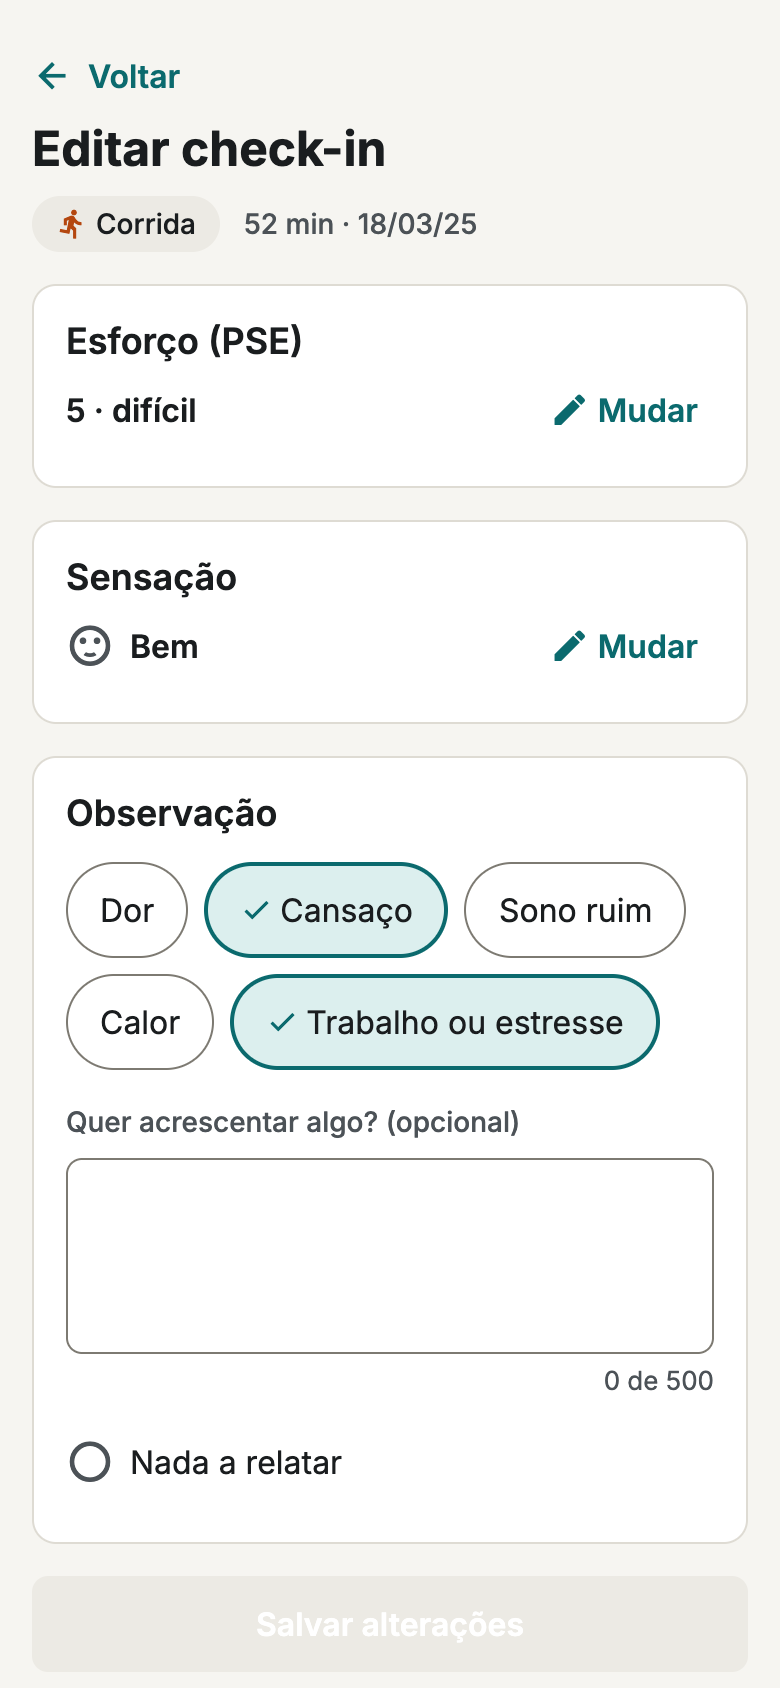
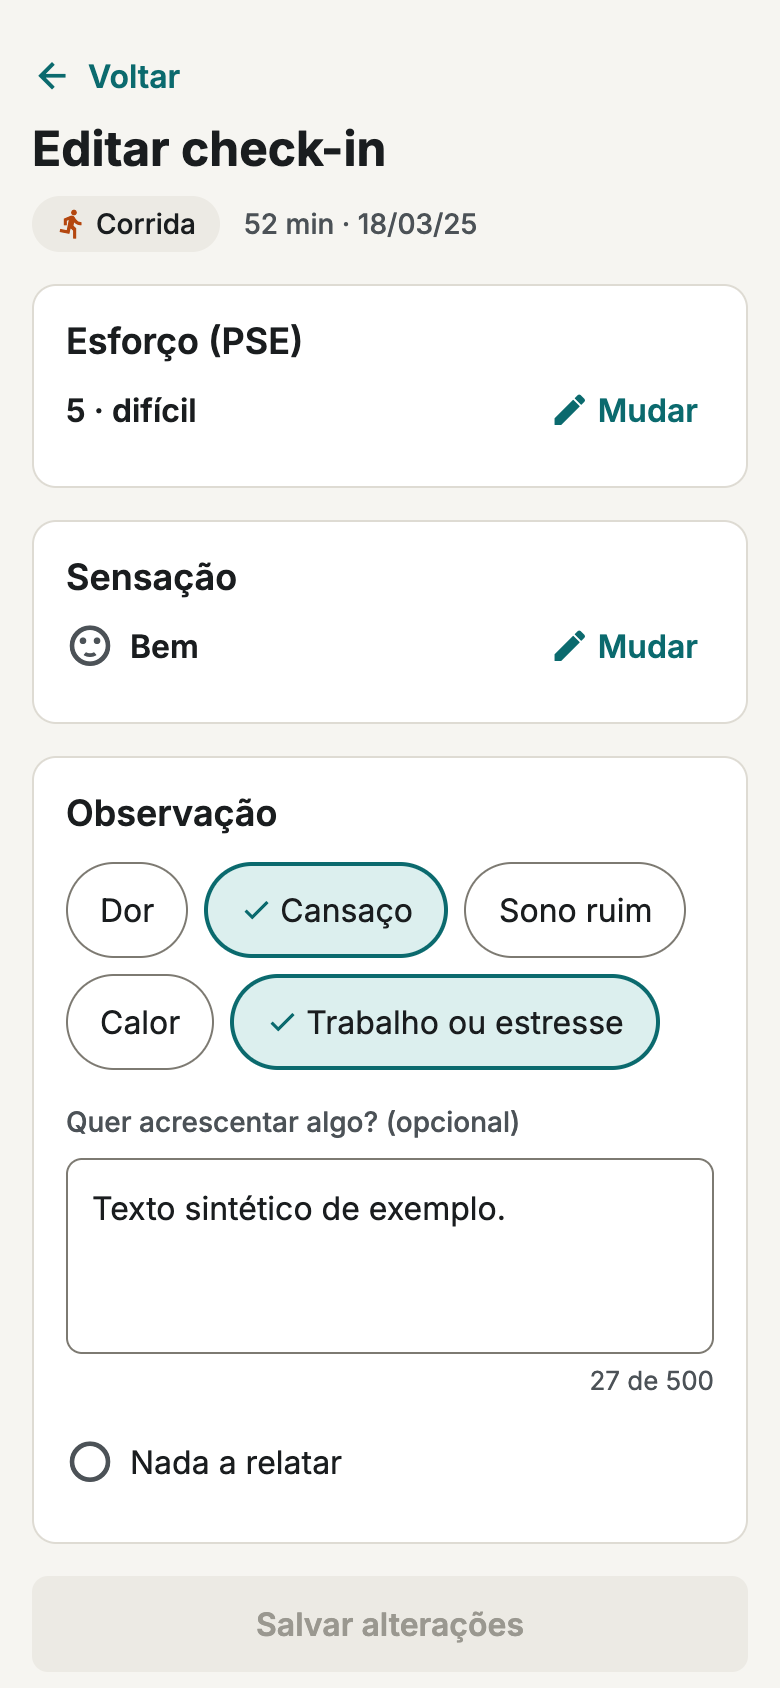
Check-in: capturas no tema escuro e nos estados de erro (#334) (#351)
* Check-in: capturas no tema escuro e nos estados de erro; botao de erro centralizado e texto desligado legivel (#334)

* Check-in: Salvando... em texto-2 e capturas refeitas com o codigo atual (#334)

---------

Changed region(s): [[0.1231, 0.7085, 0.6462, 0.7393], [0.3385, 0.955, 0.6769, 0.9858], [0.7692, 0.8009, 0.8, 0.8318]]

diff --git a/apps/mobile/src/componentes/TelaCheckin.tsx b/apps/mobile/src/componentes/TelaCheckin.tsx
@@ -299,7 +299,7 @@ export function TelaCheckin({ apiUrl, atletaId, atividadeId, aoVoltar, aoConclui
                   setCarga({ tipo: "carregando" });
                   setTentativa((n) => n + 1);
                 }}
-                style={styles.botaoPrimario}
+                style={[styles.botaoPrimario, { alignSelf: "center" }]}
               >
                 <Text style={styles.botaoPrimarioTexto}>Tentar de novo</Text>
               </Pressable>
@@ -313,7 +313,7 @@ export function TelaCheckin({ apiUrl, atletaId, atividadeId, aoVoltar, aoConclui
             <Text accessibilityRole="alert" style={styles.erroTexto}>
               {carga.texto}
             </Text>
-            <Pressable accessibilityRole="button" onPress={() => (aoConcluir ?? aoVoltar)?.()} style={styles.botaoPrimario}>
+            <Pressable accessibilityRole="button" onPress={() => (aoConcluir ?? aoVoltar)?.()} style={[styles.botaoPrimario, { alignSelf: "center" }]}>
               <Text style={styles.botaoPrimarioTexto}>Voltar ao treino</Text>
             </Pressable>
           </View>
@@ -537,7 +537,7 @@ function Pergunta(props: {
             onPress={props.aoSalvar}
             style={[styles.botaoPrimario, styles.larguraTotal, (!props.completo || ocupado) && styles.botaoDesligado]}
           >
-            <Rotulo styles={styles} tema={tema} ocupado={props.acao === "salvando"} ocupadoTexto="Salvando..." texto="Salvar check-in" />
+            <Rotulo styles={styles} tema={tema} desligado={!props.completo || ocupado} ocupado={props.acao === "salvando"} ocupadoTexto="Salvando..." texto="Salvar check-in" />
           </Pressable>
           <Pressable
             testID="nada-a-relatar"
@@ -556,14 +556,16 @@ function Pergunta(props: {
   );
 }
 
-function Rotulo({ styles, tema, ocupado, ocupadoTexto, texto }: { styles: Estilos; tema: Tema; ocupado: boolean; ocupadoTexto: string; texto: string }) {
+/** Rótulo do botão primário. Ocupado ("Salvando...") usa `cor.texto-2` sobre `superficie-2`, pois é informação de estado; só desligado usa `cor.texto-desligado`. */
+function Rotulo({ styles, tema, ocupado, ocupadoTexto, texto, desligado = false }: { styles: Estilos; tema: Tema; ocupado: boolean; ocupadoTexto: string; texto: string; desligado?: boolean }) {
+  const cor = ocupado ? tema.cor["texto-2"] : desligado ? tema.cor["texto-desligado"] : tema.cor["sobre-destaque"];
   return ocupado ? (
     <View style={styles.linhaCentro}>
-      <ActivityIndicator color={tema.cor["sobre-destaque"]} />
-      <Text style={styles.botaoPrimarioTexto}>{ocupadoTexto}</Text>
+      <ActivityIndicator color={cor} />
+      <Text style={[styles.botaoPrimarioTexto, { color: cor }]}>{ocupadoTexto}</Text>
     </View>
   ) : (
-    <Text style={styles.botaoPrimarioTexto}>{texto}</Text>
+    <Text style={[styles.botaoPrimarioTexto, { color: cor }]}>{texto}</Text>
   );
 }
 
@@ -712,7 +714,7 @@ function Edicao(props: {
         onPress={props.aoSalvar}
         style={[styles.botaoPrimario, styles.larguraTotal, { marginTop: espaco[4] }, (!props.podeSalvar || ocupado) && styles.botaoDesligado]}
       >
-        <Rotulo styles={styles} tema={tema} ocupado={props.acao === "salvando"} ocupadoTexto="Salvando..." texto="Salvar alterações" />
+        <Rotulo styles={styles} tema={tema} desligado={!props.podeSalvar || ocupado} ocupado={props.acao === "salvando"} ocupadoTexto="Salvando..." texto="Salvar alterações" />
       </Pressable>
       <Pressable
         testID="apagar-checkin"

diff --git a/apps/mobile/__tests__/TelaCheckin.test.tsx b/apps/mobile/__tests__/TelaCheckin.test.tsx
@@ -1,6 +1,8 @@
-import { fireEvent, render, screen, waitFor, within } from "@testing-library/react-native";
+import { StyleSheet } from "react-native";
+import { act, fireEvent, render, screen, waitFor, within } from "@testing-library/react-native";
 import type { Atividade } from "@treino/api-client";
 
+import { coresClaro, coresEscuro } from "../src/tema/tokens";
 import { TelaCheckin } from "../src/componentes/TelaCheckin";
 import { atividadesCheckin, checkinExemplo, MARCADOR } from "../__fixtures__/checkin";
 
@@ -128,6 +130,41 @@ describe("tela de check-in: criar", () => {
       atalhos: ["dor", "sono_ruim"],
       texto: null,
     });
+  });
+
+  it("botão desligado e 'Salvando...' usam o texto de desligado, legível nos dois temas (#334)", async () => {
+    const f = servidor({});
+    await abrir(f);
+    await pergunta1();
+    await fireEvent.press(screen.getByTestId("pse-5"));
+    await screen.findByText("Como você se sentiu no treino?");
+    await fireEvent.press(screen.getByTestId("sensacao-4"));
+    await screen.findByText("Quer registrar mais alguma coisa?");
+    const rotulo = within(screen.getByTestId("salvar-checkin")).getByText("Salvar check-in");
+    const cor = (StyleSheet.flatten(rotulo.props.style) as { color: string }).color;
+    expect([coresClaro["texto-desligado"], coresEscuro["texto-desligado"]]).toContain(cor);
+    await fireEvent.press(screen.getByTestId("atalho-dor"));
+    const ligado = within(screen.getByTestId("salvar-checkin")).getByText("Salvar check-in");
+    expect((StyleSheet.flatten(ligado.props.style) as { color: string }).color).not.toBe(cor);
+  });
+
+  it("'Salvando...' usa texto-2 (informação de estado), não o texto de desligado (#334)", async () => {
+    const f = servidor({ put: new Error("lento") });
+    let solta: (v: Response) => void = () => {};
+    const lento = jest.fn(async (url: unknown, init?: RequestInit) =>
+      init?.method === "PUT" ? new Promise<Response>((r) => (solta = r)) : f(url as string, init),
+    ) as unknown as typeof fetch;
+    await abrir(lento);
+    await pergunta1();
+    await fireEvent.press(screen.getByTestId("pse-5"));
+    await screen.findByText("Como você se sentiu no treino?");
+    await fireEvent.press(screen.getByTestId("sensacao-4"));
+    await screen.findByText("Quer registrar mais alguma coisa?");
+    await fireEvent.press(screen.getByTestId("nada-a-relatar"));
+    const rotulo = await within(screen.getByTestId("salvar-checkin")).findByText("Salvando...");
+    const cor = (StyleSheet.flatten(rotulo.props.style) as { color: string }).color;
+    expect([coresClaro["texto-2"], coresEscuro["texto-2"]]).toContain(cor);
+    await act(async () => solta({ ok: false, status: 500, json: async () => ({}) } as Response));
   });
 
   it("só texto também salva; o texto é aparado e o contador mostra N de 500", async () => {

diff --git a/docs/modulos/mobile.md b/docs/modulos/mobile.md
@@ -64,8 +64,9 @@ Spec em [[design/telas/checkin]]; contrato na [[decisoes/0012-check-in-pos-trein
 - **Lista de pendentes** (`TelaCheckinsPendentes`): `GET /atletas/{id}/checkins/pendentes` (sem `dias`, vale o padrão da API); linhas de 72 com ícone da modalidade, o `titulo` da API e "dd/mm/aa às HH:MM"; "N treinos sem check-in" (do `total`); vazio ("Nenhum check-in pendente", com os `dias` da API), erro de rede e outro erro. **Nada do check-in** aparece na lista.
 - **Evolução**: a linha "Check-ins pendentes" (`assignment`, `chevron-right`, alvo de 48) busca o `total` ao abrir (`aoAbrirCheckinsPendentes`; sem o callback não há linha nem chamada) e mostra "· N" quando há; se a busca falhar, fica sem número.
 - **Voltar com os dados novos**: o `Stack` mantém a tela anterior montada, então `src/navegacao/useContadorDeFoco.ts` (usa `useFocusEffect` do Expo Router) conta as voltas ao foco e as telas do treino, dos pendentes e da evolução buscam de novo, **sem apagar o que já está na tela** (um erro nessa busca em segundo plano não troca a tela por erro). Depois de apagar pela tela de edição, o treino volta com o cartão "sem check-in" (anunciado ao leitor de tela, mas sem o texto "Check-in apagado." na tela: esse texto só aparece quando se apaga pelo cartão).
-- API falsa (`npm run api-falsa`, dados sintéticos, em memória): os cinco endpoints do check-in. Atividades: `101` corrida e `106` natação sem check-in; `107` corrida com check-in (carga calculada); `108` com o prazo vencido; `109` parte de multiesporte com `pse_sugerida` 5 (ciclismo); `110` treino inteiro de multiesporte (não pede check-in); os demais ids são corrida sem check-in. Estados forçados por `EXPO_PUBLIC_ATLETA_ID=<id>` (reinicie o `expo start`; os ids 2 a 6 são da semana-padrão): `7` = sem pendentes (lista vazia); `8` = o `GET` dos pendentes derruba a conexão; `9` = o `GET` da atividade derruba a conexão; `10` = o `PUT` responde `422` genérico; `11` = o `PUT` responde `422` `fora_do_prazo`; `12` = o `PUT` responde `422` `atividade_sem_checkin`; `13` = o `PUT` derruba a conexão; `14` = o `PUT` responde `404`; `15` = o `DELETE` derruba a conexão; `16` = o `PUT` demora 4 s (estado "salvando"); `17` = os pendentes respondem `500`; `18` = o `GET` da atividade demora 6 s (carregando). O `PUT` valida só o formato e não repete o que recebeu.
-- Capturas (dados sintéticos, tema claro, 390 de largura, 2x) em `docs/design/telas/checkin/`: `checkin-pergunta-1-claro.png`, `-pergunta-2-`, `-pergunta-3-`, `-salvo-`, `-pergunta-1-sugestao-`, `-editar-`, `-cartao-sem-checkin-`, `-cartao-prazo-`, `-cartoes-` (com check-in e carga pela PSE) e `-pendentes-`. Tiradas com Chrome sem cabeça (Puppeteer fora do repositório) sobre `expo start --web` e a API falsa. Não há capturas do tema escuro, dos estados de erro nem da linha na evolução.
+- API falsa (`npm run api-falsa`, dados sintéticos, em memória): os cinco endpoints do check-in. Atividades: `101` corrida e `106` natação sem check-in; `107` corrida com check-in (carga calculada); `108` com o prazo vencido; `109` parte de multiesporte com `pse_sugerida` 5 (ciclismo); `110` treino inteiro de multiesporte (não pede check-in); os demais ids são corrida sem check-in. Estados forçados por `EXPO_PUBLIC_ATLETA_ID=<id>` (reinicie o `expo start`; os ids 2 a 6 são da semana-padrão): `7` = sem pendentes (lista vazia); `8` = o `GET` dos pendentes derruba a conexão; `9` = o `GET` da atividade derruba a conexão; `10` = o `PUT` responde `422` genérico; `11` = o `PUT` responde `422` `fora_do_prazo`; `12` = o `PUT` responde `422` `atividade_sem_checkin`; `13` = o `PUT` derruba a conexão; `14` = o `PUT` responde `404`; `15` = o `DELETE` derruba a conexão; `16` = o `PUT` demora 4 s (estado "salvando"); `17` = os pendentes respondem `500`; `18` = o `GET` da atividade demora 6 s (carregando); `19` = o `GET` da atividade responde `404`. O `PUT` valida só o formato e não repete o que recebeu.
+- Capturas (dados sintéticos, tema claro, 390 de largura, 2x) em `docs/design/telas/checkin/`: `checkin-pergunta-1-claro.png`, `-pergunta-2-`, `-pergunta-3-`, `-salvo-`, `-pergunta-1-sugestao-`, `-editar-`, `-cartao-sem-checkin-`, `-cartao-prazo-`, `-cartoes-` (com check-in e carga pela PSE) e `-pendentes-`. Tiradas com Chrome sem cabeça (Puppeteer fora do repositório) sobre `expo start --web` e a API falsa. Não há captura da linha na evolução.
+- Capturas do check-in no tema escuro e nos estados de erro (#334, mesmas condições, via `expo start --web` e a API falsa; o atleta forçado vem de um desvio de URL na hora da captura, sem reiniciar o `expo`): `-escuro` para todos os estados acima, e `-claro` e `-escuro` para `-pendentes-vazio`, `-salvando`, `-dialogo-apagar`, `-erro-carregar-rede`, `-erro-carregar-404`, `-erro-pendentes-rede`, `-erro-pendentes-500`, `-erro-salvar-rede`, `-erro-salvar-422`, `-erro-salvar-404`, `-erro-prazo-422`, `-erro-sem-checkin-422` e `-erro-apagar-rede`. Ajustes que saíram da revisão: "Tentar de novo" e "Voltar ao treino" dos estados de erro ficam centralizados sob o ícone e a frase; o texto do botão primário desligado usa `cor.texto-desligado` e o de "Salvando..." (ocupado, é informação de estado) usa `cor.texto-2`, texto e indicador, sobre `superficie-2`; antes era `sobre-destaque` escuro sobre `superficie-2` no escuro, e quase sumia. A API falsa ganhou o atleta `19` (o `GET` da atividade responde `404`).
 - Testes: `TelaCheckin.test.tsx` (3 e 4 toques, um único `PUT`, diálogos, sugestão, edição, apagar, erros, `422`, privacidade), `TelaCheckinsPendentes.test.tsx`, `CartoesCheckin.test.tsx` (tabela do `checkin_aberto`, carga), `evolucaoPendentes.test.tsx`, `rotasCheckin.test.tsx`, `checkinApi.test.ts`; dados em `__fixtures__/checkin.ts` (e os campos novos em `__fixtures__/atividades.ts`).
 
 ## Tela da semana-padrão (`TelaSemanaPadrao`, #268)

diff --git a/docs/design/telas/checkin.md b/docs/design/telas/checkin.md
@@ -353,6 +353,7 @@ Cartão: "Check-in", "Carga pela PSE" (UA, nunca "pontos").
 Como em [[modulos/mobile]] (`npm run api-falsa`): a API falsa precisa dos cinco endpoints, com atividades sintéticas
 com e sem check-in, uma natação, uma fora do prazo e uma parte de multiesporte; e estados forçados pelo `EXPO_PUBLIC_ATLETA_ID`,
 como na semana-padrão. Um estado por captura, 390 de largura, claro e escuro.
+As capturas ficam em `docs/design/telas/checkin/` (`checkin-<estado>-<tema>.png`); a lista completa está em [[modulos/mobile]]. O estado de erro de cada fluxo e o tema escuro foram capturados no #334.
 
 ## O que muda em relação ao app de hoje
 | hoje | proposta | issue |
